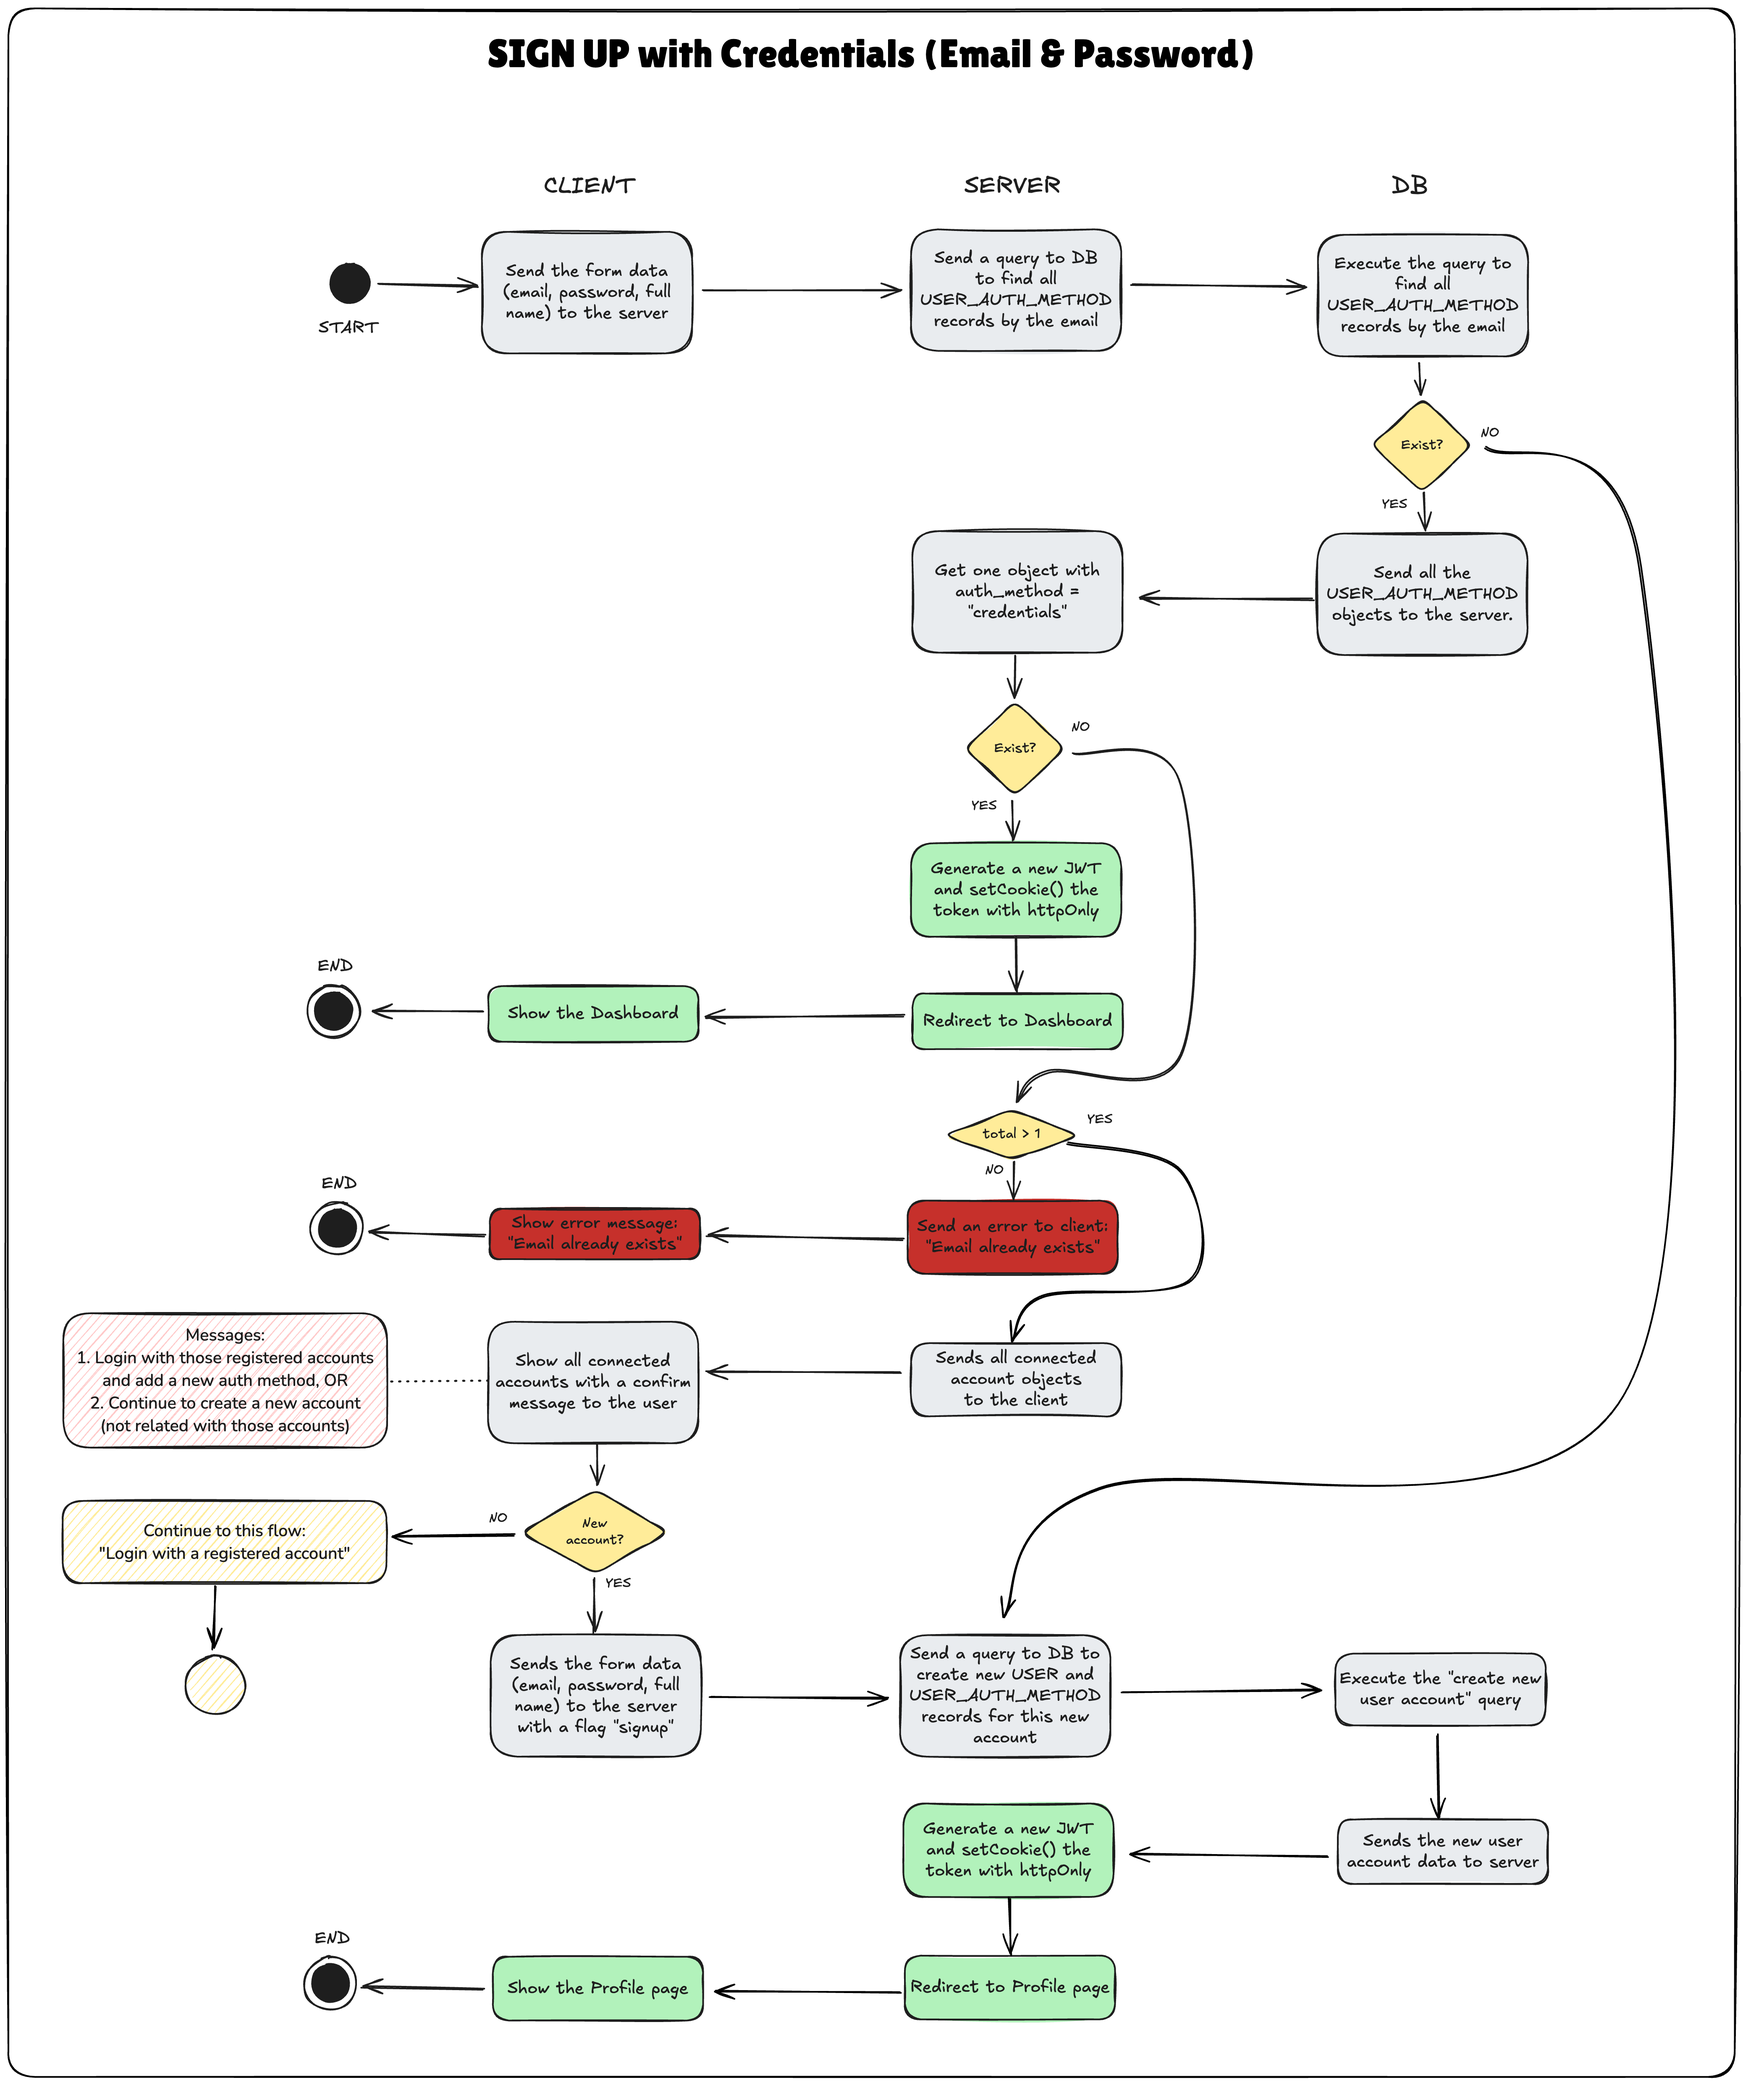
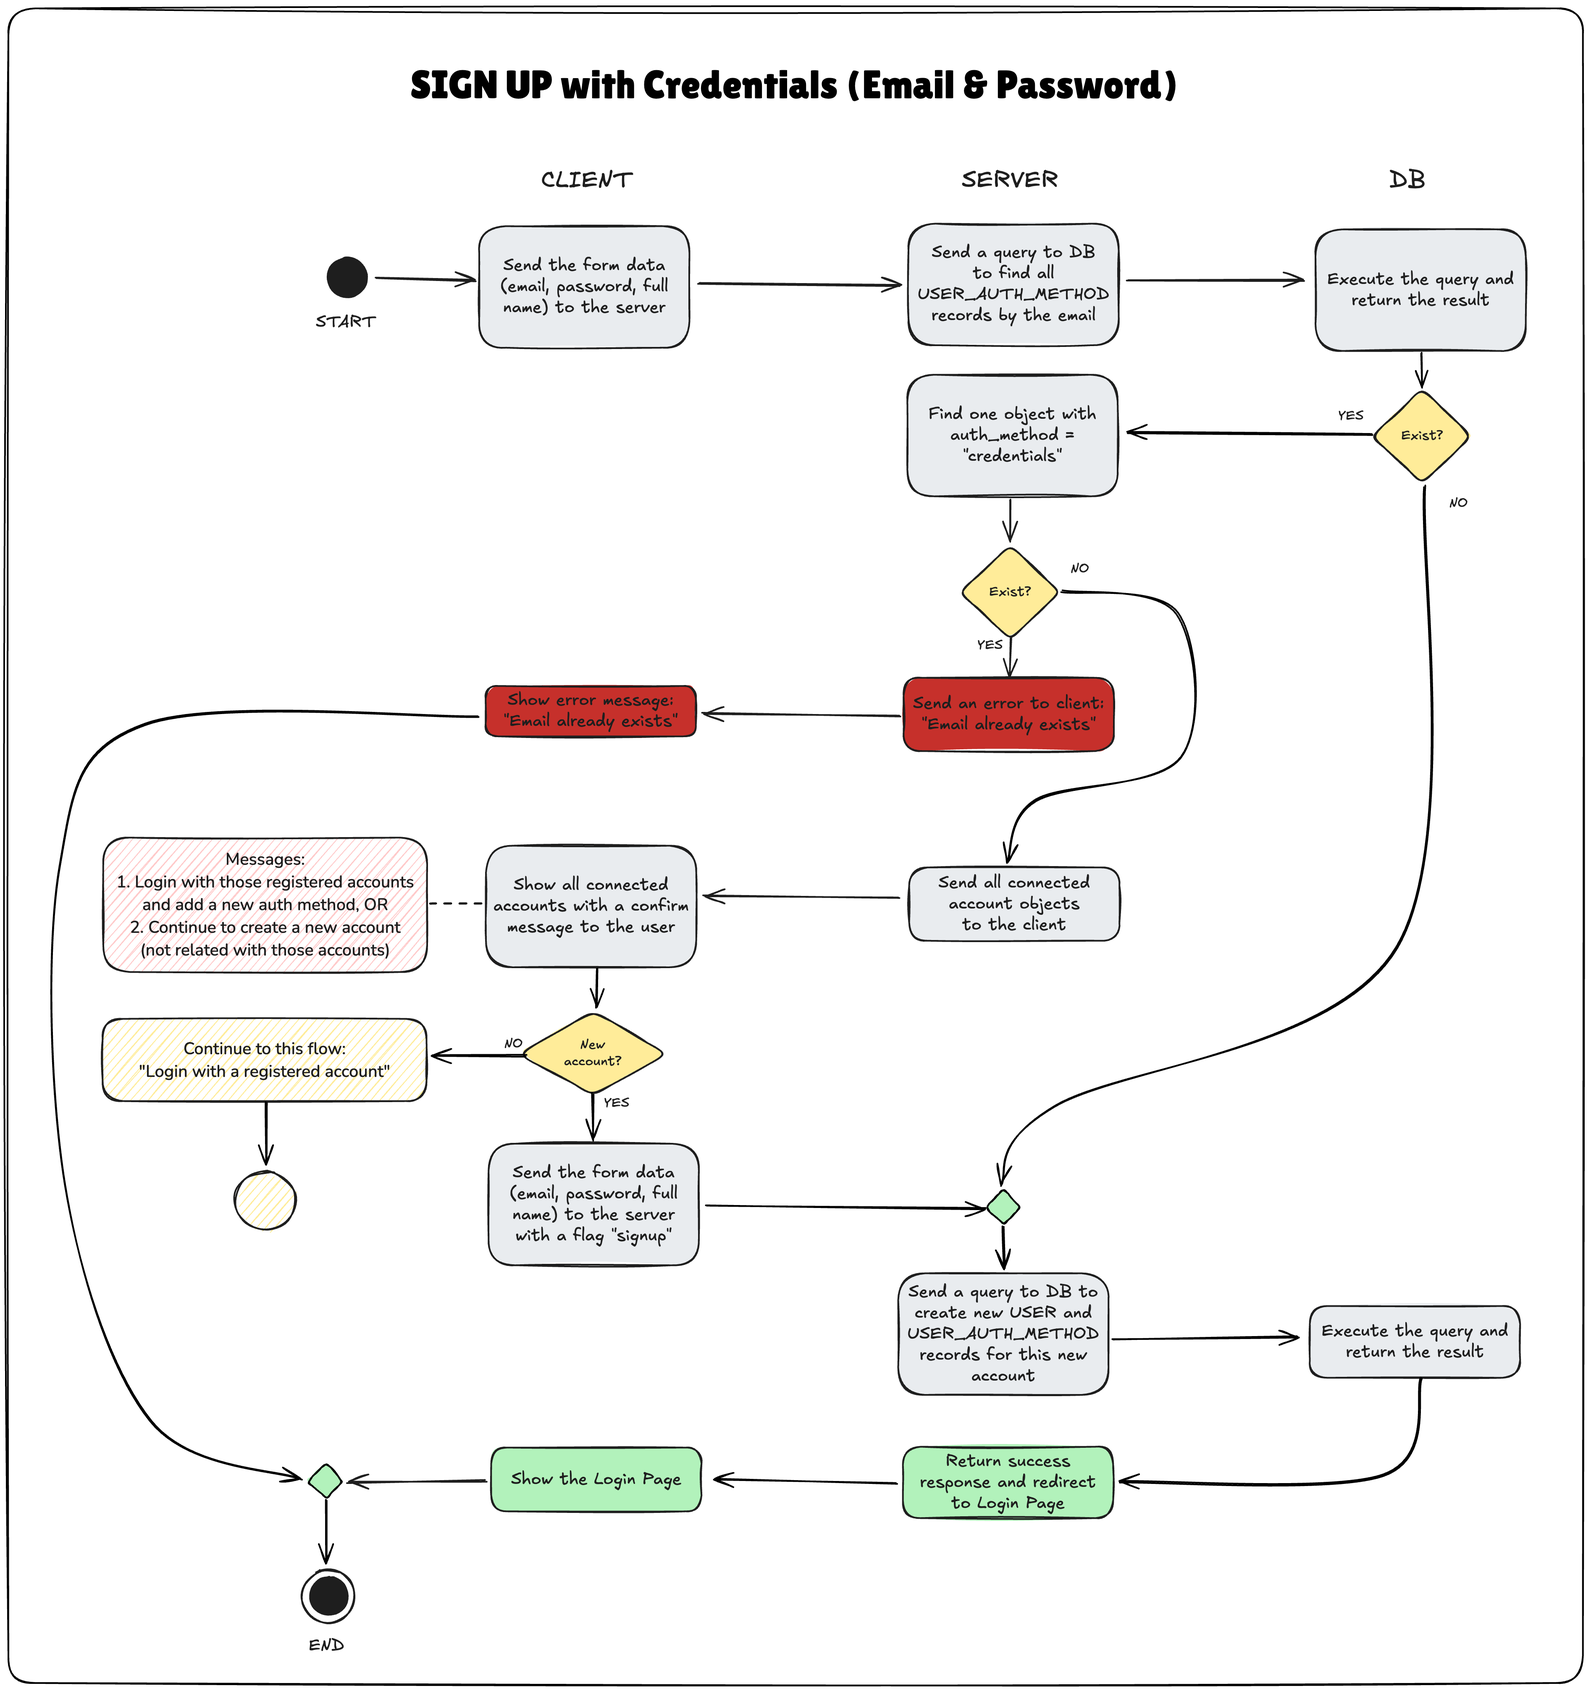
chore: update the activity diagram and add a use case description for the "Sign Up with Credentials" activity

diff --git a/docs/process-flows/index.md b/docs/process-flows/index.md
@@ -3,4 +3,38 @@
 ## A. Sign Up with Credentials (Email & Password)
 ![diagram](./sign-up-with-credentials.png)
 
+### A.1 Normal Flow
+1. User submits the Sign Up Form.
+2. Server sends a query to DB to find all `USER_AUTH_METHOD` records with `auth_identifier = "<email>"`.
+3. DB executes the query and returns the result to the server.
+   - If there is **one or more records**, continue to the **subflow S-1**.
+4. Server sends a query to DB to create new a `USER` record with the submitted form data.
+5. DB executes the query and returns the result to the server.
+6. Server sends a query to DB to create a new `USER_AUTH_METHOD` record for this new user account with `auth_method = "credentials"` and `auth_identifier = <form.email>`.
+7. DB executes the query and returns the result to the server.
+8. Server sends a success response to the client and redirect it to the Login page.
+
+#### A.1.1. Future Flow
+In the last step, instead of redirect the user to the Login page, server can send a verification email to the user.
+
+### A.2. Subflow
+#### A.2.1. S-1: User account might exists
+1. Server finds a record where `auth_method = "credentials"`.
+   - If the record **does not exist**, continue to the **subflow S-2**.
+2. Server returns an error response **"Email already exists"** to the client.
+3. Client show an error message **"Email already exists"** on the Sign Up form.
+
+#### A.2.2. S-2: Email is already used with other auth methods
+1. Server returns a warning response, telling the user if we find that the email has been registered to the system using another authentication method (Google, Github, etc).
+2. Client show sign in buttons of those authentication methods with a simple message and keep showing the sign up form (all fields are filled).
+  - If the user decides to create a new account, continue to the **step #4 in Normal Flow**.
+  - If the user decides to sign in using one of those authentication methods (e.g. Google), continue to the [Sign In with Google](/#d-sign-in-with-google) flow.
+
 ## B. Sign Up with Google
+TODO
+
+## C. Sign In with Credentials
+TODO
+
+## D. Sign In with Google
+TODO
